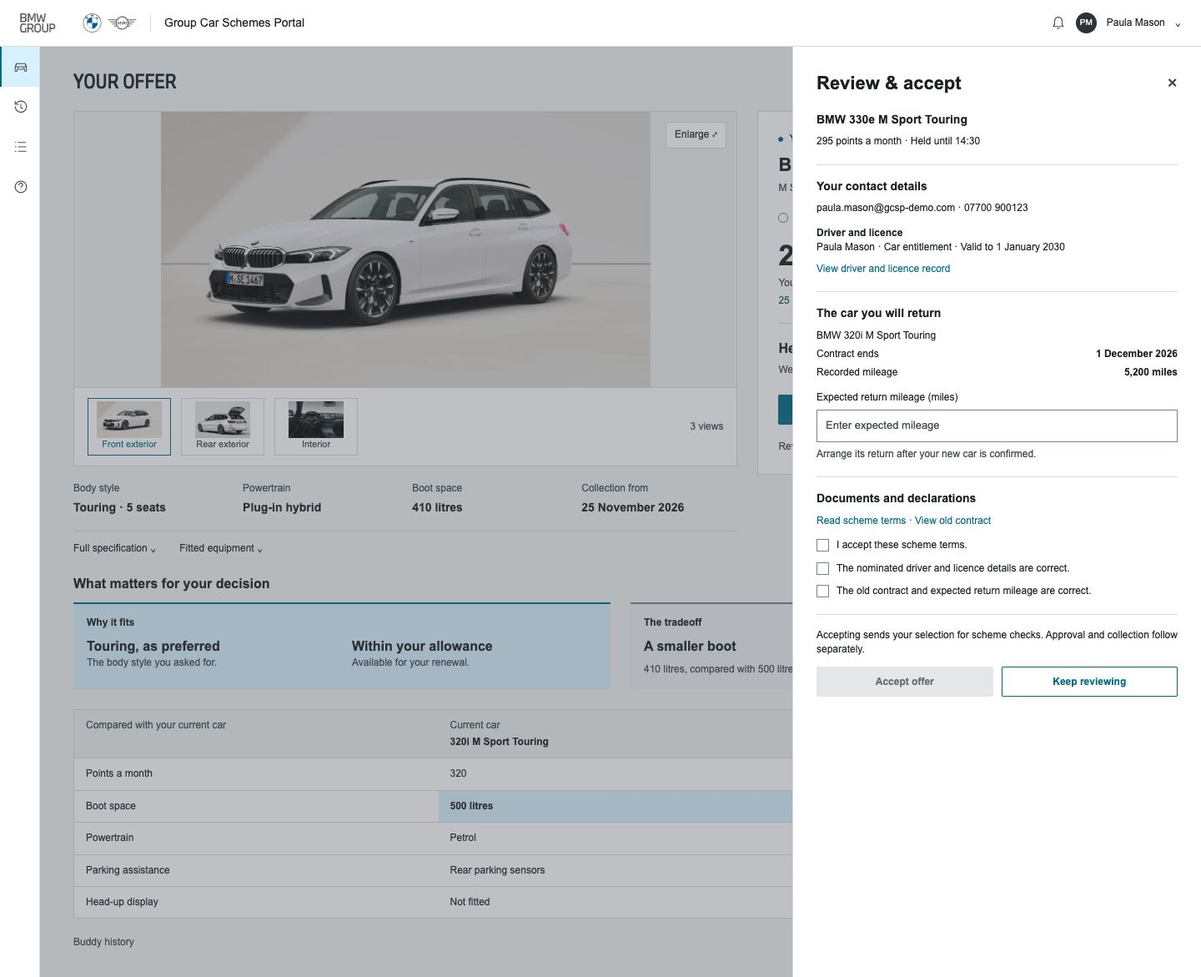
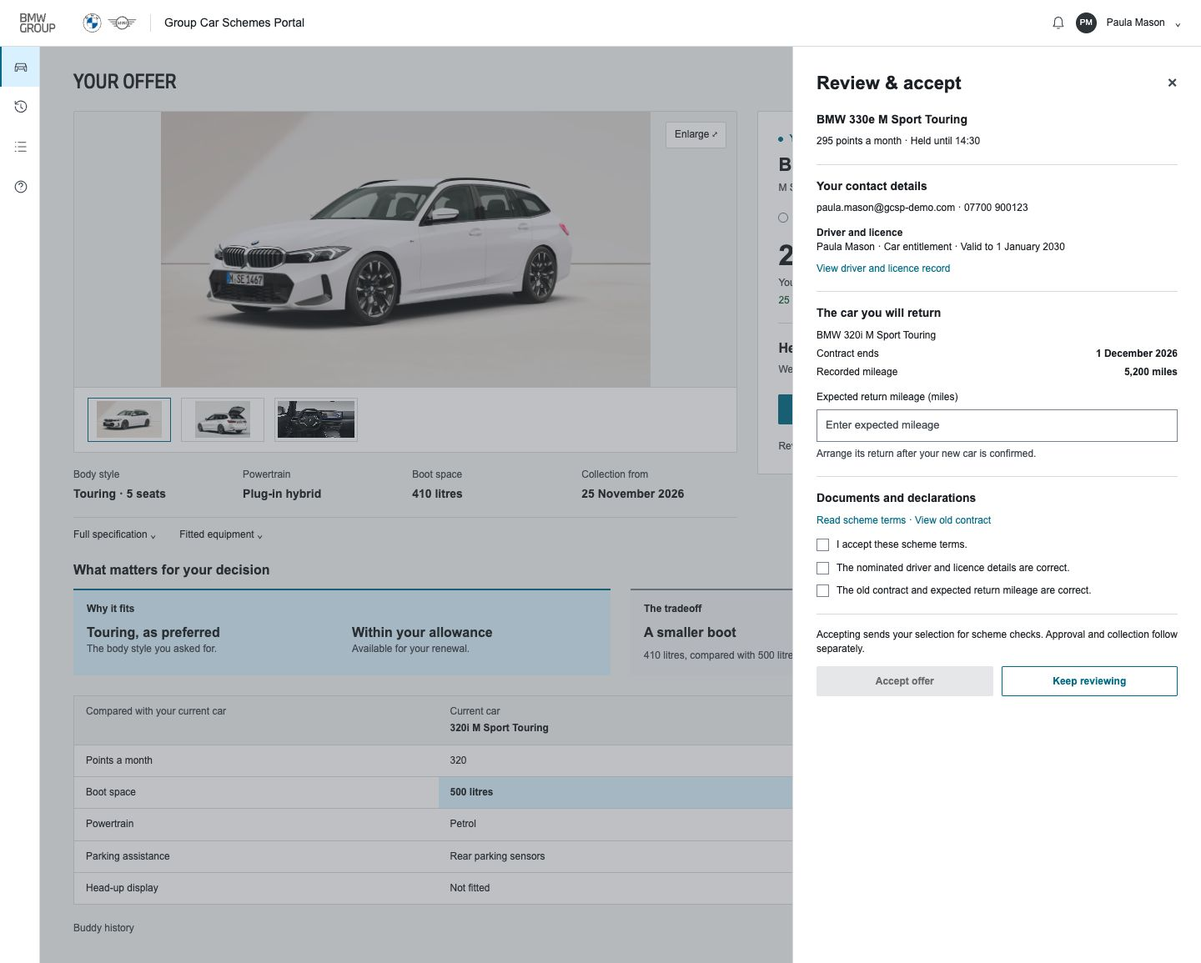
docs: simplify focused offer gallery picker [skip ci]
Remove thumbnail captions and view count from the focused concept and its review states. Preserve descriptive image alternatives. Quick desktop visual review completed.

diff --git a/docs/gcsp/mockups/your-offer-desktop-2026-11-11/accept-review.html b/docs/gcsp/mockups/your-offer-desktop-2026-11-11/accept-review.html
@@ -1,1 +1,1 @@
-<!doctype html><html lang="en-GB"><head><meta charset="utf-8"><meta name="viewport" content="width=device-width,initial-scale=1"><title>Your offer · GCSP</title><link rel="stylesheet" href="mockup.css"></head><body class="focused state-page"><header class="top"><img class="brand" src="assets/brand.svg" alt="BMW Group, BMW and MINI"><span class="portal">Group Car Schemes Portal</span><div class="profile"><img class="bell" src="assets/bell.svg" alt="Offer notifications"><span class="avatar">PM</span>Paula Mason <span aria-hidden="true">⌄</span></div></header><div class="shell"><nav class="rail" aria-label="Portal"><span class="rail-item active"><img src="assets/car.svg" alt="Your cars"></span><span class="rail-item"><img src="assets/history.svg" alt="Buddy history"></span><span class="rail-item"><img src="assets/order.svg" alt="Order progress"></span><span class="rail-item"><img src="assets/help.svg" alt="Help"></span></nav><main><div class="page-head"><h1>Your offer</h1><span class="back">‹ Back to Your cars</span></div><div class="hero"><div><div class="gallery"><div class="photo"><img src="assets/front.webp" alt="Alpine White BMW 3 Series Touring"><span class="enlarge">Enlarge ⤢</span></div><div class="thumbs"><div class="thumb selected"><img src="assets/front.webp" alt="">Front exterior</div><div class="thumb"><img src="assets/rear.jpg" alt="">Rear exterior</div><div class="thumb"><img src="assets/interior.jpg" alt="">Interior</div><span class="thumb-count">3 views</span></div></div><dl class="detail-strip"><div><dt>Body style</dt><dd>Touring · 5 seats</dd></div><div><dt>Powertrain</dt><dd>Plug-in hybrid</dd></div><div><dt>Boot space</dt><dd>410 litres</dd></div><div><dt>Collection from</dt><dd>25 November 2026</dd></div></dl><div class="disclosures"><span>Full specification <span aria-hidden="true">⌄</span></span><span>Fitted equipment <span aria-hidden="true">⌄</span></span></div></div><aside class="summary"><div class="identity"><p class="eyebrow">Your buddy found a car for you</p><h2 style="margin-top:8px">BMW 330e M Sport Touring</h2><p class="model-sub">M Sport Pro package · Automatic</p></div><p class="finishes"><span><i class="swatch"></i>Alpine White</span><span><i class="swatch black"></i>Black Veganza</span></p><div class="cost"><strong>295</strong> points a month<p class="allowance">Your allowance: 320 points a month</p><p class="saving">25 fewer than your current car</p></div><div class="deadline"><div><strong>Held until 14:30</strong><p class="sub">Wednesday 11 November</p></div><div class="time">2h 00m<small>left to decide</small></div></div><div class="actions"><button class="action primary" type="button">Review &amp; accept</button><button class="action" type="button">Decline offer</button></div><p class="footnote">Review your details and declarations before accepting.</p></aside></div><section class="section"><div class="section-head"><h2>What matters for your decision</h2></div><div class="why"><div class="why-block"><h3>Why it fits</h3><div class="compact-bits"><div><strong>Touring, as preferred</strong><p>The body style you asked for.</p></div><div><strong>Within your allowance</strong><p>Available for your renewal.</p></div></div></div><div class="why-block trade"><h3>The tradeoff</h3><strong>A smaller boot</strong><p>410 litres, compared with 500 litres in your current car.</p></div></div></section><section class="section"><table class="compare"><thead><tr><th>Compared with your current car</th><th>Current car<span class="name">320i M Sport Touring</span></th><th class="offer-col">This offer<span class="name">330e M Sport Touring</span></th></tr></thead><tbody><tr><td>Points a month</td><td class="">320</td><td class="win">295</td></tr><tr><td>Boot space</td><td class="win">500 litres</td><td class="">410 litres</td></tr><tr><td>Powertrain</td><td class="">Petrol</td><td class="">Plug-in hybrid</td></tr><tr><td>Parking assistance</td><td class="">Rear parking sensors</td><td class="win">Parking Assistant Plus</td></tr><tr><td>Head-up display</td><td class="">Not fitted</td><td class="win">Included</td></tr></tbody></table></section><div class="bottom"><span class="quiet">Buddy history</span><span class="return-link">Check current offer state</span></div><div class="state-shade"></div><div class="drawer"><div class="drawer-head"><h2>Review &amp; accept</h2><span class="drawer-close">×</span></div><div><h3>BMW 330e M Sport Touring</h3><p>295 points a month · Held until 14:30</p></div><section><h3>Your contact details</h3><p>paula.mason@gcsp-demo.com · 07700 900123</p><p style="margin-top:12px"><strong>Driver and licence</strong></p><p>Paula Mason · Car entitlement · Valid to 1 January 2030</p><p style="margin-top:8px;color:var(--teal)">View driver and licence record</p></section><section><h3>The car you will return</h3><p>BMW 320i M Sport Touring</p><div class="pair"><span>Contract ends</span><strong>1 December 2026</strong></div><div class="pair"><span>Recorded mileage</span><strong>5,200 miles</strong></div><p style="margin-top:12px">Expected return mileage (miles)</p><div class="field">Enter expected mileage</div><p class="sub">Arrange its return after your new car is confirmed.</p></section><section><h3>Documents and declarations</h3><p style="color:var(--teal);margin-bottom:12px">Read scheme terms · View old contract</p><div class="checks"><p><span class="box"></span>I accept these scheme terms.</p><p><span class="box"></span>The nominated driver and licence details are correct.</p><p><span class="box"></span>The old contract and expected return mileage are correct.</p></div></section><div class="drawer-footer"><p>Accepting sends your selection for scheme checks. Approval and collection follow separately.</p><div class="actions"><button class="action disabled" disabled>Accept offer</button><button class="action">Keep reviewing</button></div></div></div></main></div></body></html>
+<!doctype html><html lang="en-GB"><head><meta charset="utf-8"><meta name="viewport" content="width=device-width,initial-scale=1"><title>Your offer · GCSP</title><link rel="stylesheet" href="mockup.css"></head><body class="focused state-page"><header class="top"><img class="brand" src="assets/brand.svg" alt="BMW Group, BMW and MINI"><span class="portal">Group Car Schemes Portal</span><div class="profile"><img class="bell" src="assets/bell.svg" alt="Offer notifications"><span class="avatar">PM</span>Paula Mason <span aria-hidden="true">⌄</span></div></header><div class="shell"><nav class="rail" aria-label="Portal"><span class="rail-item active"><img src="assets/car.svg" alt="Your cars"></span><span class="rail-item"><img src="assets/history.svg" alt="Buddy history"></span><span class="rail-item"><img src="assets/order.svg" alt="Order progress"></span><span class="rail-item"><img src="assets/help.svg" alt="Help"></span></nav><main><div class="page-head"><h1>Your offer</h1><span class="back">‹ Back to Your cars</span></div><div class="hero"><div><div class="gallery"><div class="photo"><img src="assets/front.webp" alt="Alpine White BMW 3 Series Touring"><span class="enlarge">Enlarge ⤢</span></div><div class="thumbs"><div class="thumb selected"><img src="assets/front.webp" alt="Front exterior"></div><div class="thumb"><img src="assets/rear.jpg" alt="Rear exterior"></div><div class="thumb"><img src="assets/interior.jpg" alt="Interior"></div></div></div><dl class="detail-strip"><div><dt>Body style</dt><dd>Touring · 5 seats</dd></div><div><dt>Powertrain</dt><dd>Plug-in hybrid</dd></div><div><dt>Boot space</dt><dd>410 litres</dd></div><div><dt>Collection from</dt><dd>25 November 2026</dd></div></dl><div class="disclosures"><span>Full specification <span aria-hidden="true">⌄</span></span><span>Fitted equipment <span aria-hidden="true">⌄</span></span></div></div><aside class="summary"><div class="identity"><p class="eyebrow">Your buddy found a car for you</p><h2 style="margin-top:8px">BMW 330e M Sport Touring</h2><p class="model-sub">M Sport Pro package · Automatic</p></div><p class="finishes"><span><i class="swatch"></i>Alpine White</span><span><i class="swatch black"></i>Black Veganza</span></p><div class="cost"><strong>295</strong> points a month<p class="allowance">Your allowance: 320 points a month</p><p class="saving">25 fewer than your current car</p></div><div class="deadline"><div><strong>Held until 14:30</strong><p class="sub">Wednesday 11 November</p></div><div class="time">2h 00m<small>left to decide</small></div></div><div class="actions"><button class="action primary" type="button">Review &amp; accept</button><button class="action" type="button">Decline offer</button></div><p class="footnote">Review your details and declarations before accepting.</p></aside></div><section class="section"><div class="section-head"><h2>What matters for your decision</h2></div><div class="why"><div class="why-block"><h3>Why it fits</h3><div class="compact-bits"><div><strong>Touring, as preferred</strong><p>The body style you asked for.</p></div><div><strong>Within your allowance</strong><p>Available for your renewal.</p></div></div></div><div class="why-block trade"><h3>The tradeoff</h3><strong>A smaller boot</strong><p>410 litres, compared with 500 litres in your current car.</p></div></div></section><section class="section"><table class="compare"><thead><tr><th>Compared with your current car</th><th>Current car<span class="name">320i M Sport Touring</span></th><th class="offer-col">This offer<span class="name">330e M Sport Touring</span></th></tr></thead><tbody><tr><td>Points a month</td><td class="">320</td><td class="win">295</td></tr><tr><td>Boot space</td><td class="win">500 litres</td><td class="">410 litres</td></tr><tr><td>Powertrain</td><td class="">Petrol</td><td class="">Plug-in hybrid</td></tr><tr><td>Parking assistance</td><td class="">Rear parking sensors</td><td class="win">Parking Assistant Plus</td></tr><tr><td>Head-up display</td><td class="">Not fitted</td><td class="win">Included</td></tr></tbody></table></section><div class="bottom"><span class="quiet">Buddy history</span><span class="return-link">Check current offer state</span></div><div class="state-shade"></div><div class="drawer"><div class="drawer-head"><h2>Review &amp; accept</h2><span class="drawer-close">×</span></div><div><h3>BMW 330e M Sport Touring</h3><p>295 points a month · Held until 14:30</p></div><section><h3>Your contact details</h3><p>paula.mason@gcsp-demo.com · 07700 900123</p><p style="margin-top:12px"><strong>Driver and licence</strong></p><p>Paula Mason · Car entitlement · Valid to 1 January 2030</p><p style="margin-top:8px;color:var(--teal)">View driver and licence record</p></section><section><h3>The car you will return</h3><p>BMW 320i M Sport Touring</p><div class="pair"><span>Contract ends</span><strong>1 December 2026</strong></div><div class="pair"><span>Recorded mileage</span><strong>5,200 miles</strong></div><p style="margin-top:12px">Expected return mileage (miles)</p><div class="field">Enter expected mileage</div><p class="sub">Arrange its return after your new car is confirmed.</p></section><section><h3>Documents and declarations</h3><p style="color:var(--teal);margin-bottom:12px">Read scheme terms · View old contract</p><div class="checks"><p><span class="box"></span>I accept these scheme terms.</p><p><span class="box"></span>The nominated driver and licence details are correct.</p><p><span class="box"></span>The old contract and expected return mileage are correct.</p></div></section><div class="drawer-footer"><p>Accepting sends your selection for scheme checks. Approval and collection follow separately.</p><div class="actions"><button class="action disabled" disabled>Accept offer</button><button class="action">Keep reviewing</button></div></div></div></main></div></body></html>

diff --git a/docs/gcsp/mockups/your-offer-desktop-2026-11-11/decline-review.html b/docs/gcsp/mockups/your-offer-desktop-2026-11-11/decline-review.html
@@ -1,1 +1,1 @@
-<!doctype html><html lang="en-GB"><head><meta charset="utf-8"><meta name="viewport" content="width=device-width,initial-scale=1"><title>Your offer · GCSP</title><link rel="stylesheet" href="mockup.css"></head><body class="focused state-page"><header class="top"><img class="brand" src="assets/brand.svg" alt="BMW Group, BMW and MINI"><span class="portal">Group Car Schemes Portal</span><div class="profile"><img class="bell" src="assets/bell.svg" alt="Offer notifications"><span class="avatar">PM</span>Paula Mason <span aria-hidden="true">⌄</span></div></header><div class="shell"><nav class="rail" aria-label="Portal"><span class="rail-item active"><img src="assets/car.svg" alt="Your cars"></span><span class="rail-item"><img src="assets/history.svg" alt="Buddy history"></span><span class="rail-item"><img src="assets/order.svg" alt="Order progress"></span><span class="rail-item"><img src="assets/help.svg" alt="Help"></span></nav><main><div class="page-head"><h1>Your offer</h1><span class="back">‹ Back to Your cars</span></div><div class="hero"><div><div class="gallery"><div class="photo"><img src="assets/front.webp" alt="Alpine White BMW 3 Series Touring"><span class="enlarge">Enlarge ⤢</span></div><div class="thumbs"><div class="thumb selected"><img src="assets/front.webp" alt="">Front exterior</div><div class="thumb"><img src="assets/rear.jpg" alt="">Rear exterior</div><div class="thumb"><img src="assets/interior.jpg" alt="">Interior</div><span class="thumb-count">3 views</span></div></div><dl class="detail-strip"><div><dt>Body style</dt><dd>Touring · 5 seats</dd></div><div><dt>Powertrain</dt><dd>Plug-in hybrid</dd></div><div><dt>Boot space</dt><dd>410 litres</dd></div><div><dt>Collection from</dt><dd>25 November 2026</dd></div></dl><div class="disclosures"><span>Full specification <span aria-hidden="true">⌄</span></span><span>Fitted equipment <span aria-hidden="true">⌄</span></span></div></div><aside class="summary"><div class="identity"><p class="eyebrow">Your buddy found a car for you</p><h2 style="margin-top:8px">BMW 330e M Sport Touring</h2><p class="model-sub">M Sport Pro package · Automatic</p></div><p class="finishes"><span><i class="swatch"></i>Alpine White</span><span><i class="swatch black"></i>Black Veganza</span></p><div class="cost"><strong>295</strong> points a month<p class="allowance">Your allowance: 320 points a month</p><p class="saving">25 fewer than your current car</p></div><div class="deadline"><div><strong>Held until 14:30</strong><p class="sub">Wednesday 11 November</p></div><div class="time">2h 00m<small>left to decide</small></div></div><div class="actions"><button class="action primary" type="button">Review &amp; accept</button><button class="action" type="button">Decline offer</button></div><p class="footnote">Review your details and declarations before accepting.</p></aside></div><section class="section"><div class="section-head"><h2>What matters for your decision</h2></div><div class="why"><div class="why-block"><h3>Why it fits</h3><div class="compact-bits"><div><strong>Touring, as preferred</strong><p>The body style you asked for.</p></div><div><strong>Within your allowance</strong><p>Available for your renewal.</p></div></div></div><div class="why-block trade"><h3>The tradeoff</h3><strong>A smaller boot</strong><p>410 litres, compared with 500 litres in your current car.</p></div></div></section><section class="section"><table class="compare"><thead><tr><th>Compared with your current car</th><th>Current car<span class="name">320i M Sport Touring</span></th><th class="offer-col">This offer<span class="name">330e M Sport Touring</span></th></tr></thead><tbody><tr><td>Points a month</td><td class="">320</td><td class="win">295</td></tr><tr><td>Boot space</td><td class="win">500 litres</td><td class="">410 litres</td></tr><tr><td>Powertrain</td><td class="">Petrol</td><td class="">Plug-in hybrid</td></tr><tr><td>Parking assistance</td><td class="">Rear parking sensors</td><td class="win">Parking Assistant Plus</td></tr><tr><td>Head-up display</td><td class="">Not fitted</td><td class="win">Included</td></tr></tbody></table></section><div class="bottom"><span class="quiet">Buddy history</span><span class="return-link">Check current offer state</span></div><div class="state-shade"></div><div class="drawer"><div class="drawer-head"><h2>Decline this offer</h2><span class="drawer-close">×</span></div><div><h3>BMW 330e M Sport Touring</h3><p style="margin-top:6px">What does not work for you?</p></div><div class="radio-row">Body style</div><div class="radio-row selected">Size</div><div class="radio-row">Fuel type</div><div class="radio-row">Equipment</div><div class="drawer-footer"><p>Declining releases this car. You can then change one thing for your buddy’s next search.</p><div class="actions"><button class="action primary">Decline offer</button><button class="action">Keep reviewing</button></div></div></div></main></div></body></html>
+<!doctype html><html lang="en-GB"><head><meta charset="utf-8"><meta name="viewport" content="width=device-width,initial-scale=1"><title>Your offer · GCSP</title><link rel="stylesheet" href="mockup.css"></head><body class="focused state-page"><header class="top"><img class="brand" src="assets/brand.svg" alt="BMW Group, BMW and MINI"><span class="portal">Group Car Schemes Portal</span><div class="profile"><img class="bell" src="assets/bell.svg" alt="Offer notifications"><span class="avatar">PM</span>Paula Mason <span aria-hidden="true">⌄</span></div></header><div class="shell"><nav class="rail" aria-label="Portal"><span class="rail-item active"><img src="assets/car.svg" alt="Your cars"></span><span class="rail-item"><img src="assets/history.svg" alt="Buddy history"></span><span class="rail-item"><img src="assets/order.svg" alt="Order progress"></span><span class="rail-item"><img src="assets/help.svg" alt="Help"></span></nav><main><div class="page-head"><h1>Your offer</h1><span class="back">‹ Back to Your cars</span></div><div class="hero"><div><div class="gallery"><div class="photo"><img src="assets/front.webp" alt="Alpine White BMW 3 Series Touring"><span class="enlarge">Enlarge ⤢</span></div><div class="thumbs"><div class="thumb selected"><img src="assets/front.webp" alt="Front exterior"></div><div class="thumb"><img src="assets/rear.jpg" alt="Rear exterior"></div><div class="thumb"><img src="assets/interior.jpg" alt="Interior"></div></div></div><dl class="detail-strip"><div><dt>Body style</dt><dd>Touring · 5 seats</dd></div><div><dt>Powertrain</dt><dd>Plug-in hybrid</dd></div><div><dt>Boot space</dt><dd>410 litres</dd></div><div><dt>Collection from</dt><dd>25 November 2026</dd></div></dl><div class="disclosures"><span>Full specification <span aria-hidden="true">⌄</span></span><span>Fitted equipment <span aria-hidden="true">⌄</span></span></div></div><aside class="summary"><div class="identity"><p class="eyebrow">Your buddy found a car for you</p><h2 style="margin-top:8px">BMW 330e M Sport Touring</h2><p class="model-sub">M Sport Pro package · Automatic</p></div><p class="finishes"><span><i class="swatch"></i>Alpine White</span><span><i class="swatch black"></i>Black Veganza</span></p><div class="cost"><strong>295</strong> points a month<p class="allowance">Your allowance: 320 points a month</p><p class="saving">25 fewer than your current car</p></div><div class="deadline"><div><strong>Held until 14:30</strong><p class="sub">Wednesday 11 November</p></div><div class="time">2h 00m<small>left to decide</small></div></div><div class="actions"><button class="action primary" type="button">Review &amp; accept</button><button class="action" type="button">Decline offer</button></div><p class="footnote">Review your details and declarations before accepting.</p></aside></div><section class="section"><div class="section-head"><h2>What matters for your decision</h2></div><div class="why"><div class="why-block"><h3>Why it fits</h3><div class="compact-bits"><div><strong>Touring, as preferred</strong><p>The body style you asked for.</p></div><div><strong>Within your allowance</strong><p>Available for your renewal.</p></div></div></div><div class="why-block trade"><h3>The tradeoff</h3><strong>A smaller boot</strong><p>410 litres, compared with 500 litres in your current car.</p></div></div></section><section class="section"><table class="compare"><thead><tr><th>Compared with your current car</th><th>Current car<span class="name">320i M Sport Touring</span></th><th class="offer-col">This offer<span class="name">330e M Sport Touring</span></th></tr></thead><tbody><tr><td>Points a month</td><td class="">320</td><td class="win">295</td></tr><tr><td>Boot space</td><td class="win">500 litres</td><td class="">410 litres</td></tr><tr><td>Powertrain</td><td class="">Petrol</td><td class="">Plug-in hybrid</td></tr><tr><td>Parking assistance</td><td class="">Rear parking sensors</td><td class="win">Parking Assistant Plus</td></tr><tr><td>Head-up display</td><td class="">Not fitted</td><td class="win">Included</td></tr></tbody></table></section><div class="bottom"><span class="quiet">Buddy history</span><span class="return-link">Check current offer state</span></div><div class="state-shade"></div><div class="drawer"><div class="drawer-head"><h2>Decline this offer</h2><span class="drawer-close">×</span></div><div><h3>BMW 330e M Sport Touring</h3><p style="margin-top:6px">What does not work for you?</p></div><div class="radio-row">Body style</div><div class="radio-row selected">Size</div><div class="radio-row">Fuel type</div><div class="radio-row">Equipment</div><div class="drawer-footer"><p>Declining releases this car. You can then change one thing for your buddy’s next search.</p><div class="actions"><button class="action primary">Decline offer</button><button class="action">Keep reviewing</button></div></div></div></main></div></body></html>

diff --git a/docs/gcsp/mockups/your-offer-desktop-2026-11-11/focused.html b/docs/gcsp/mockups/your-offer-desktop-2026-11-11/focused.html
@@ -1,1 +1,1 @@
-<!doctype html><html lang="en-GB"><head><meta charset="utf-8"><meta name="viewport" content="width=device-width,initial-scale=1"><title>Your offer · GCSP</title><link rel="stylesheet" href="mockup.css"></head><body class="focused"><header class="top"><img class="brand" src="assets/brand.svg" alt="BMW Group, BMW and MINI"><span class="portal">Group Car Schemes Portal</span><div class="profile"><img class="bell" src="assets/bell.svg" alt="Offer notifications"><span class="avatar">PM</span>Paula Mason <span aria-hidden="true">⌄</span></div></header><div class="shell"><nav class="rail" aria-label="Portal"><span class="rail-item active"><img src="assets/car.svg" alt="Your cars"></span><span class="rail-item"><img src="assets/history.svg" alt="Buddy history"></span><span class="rail-item"><img src="assets/order.svg" alt="Order progress"></span><span class="rail-item"><img src="assets/help.svg" alt="Help"></span></nav><main><div class="page-head"><h1>Your offer</h1><span class="back">‹ Back to Your cars</span></div><div class="hero"><div><div class="gallery"><div class="photo"><img src="assets/front.webp" alt="Alpine White BMW 3 Series Touring"><span class="enlarge">Enlarge ⤢</span></div><div class="thumbs"><div class="thumb selected"><img src="assets/front.webp" alt="">Front exterior</div><div class="thumb"><img src="assets/rear.jpg" alt="">Rear exterior</div><div class="thumb"><img src="assets/interior.jpg" alt="">Interior</div><span class="thumb-count">3 views</span></div></div><dl class="detail-strip"><div><dt>Body style</dt><dd>Touring · 5 seats</dd></div><div><dt>Powertrain</dt><dd>Plug-in hybrid</dd></div><div><dt>Boot space</dt><dd>410 litres</dd></div><div><dt>Collection from</dt><dd>25 November 2026</dd></div></dl><div class="disclosures"><span>Full specification <span aria-hidden="true">⌄</span></span><span>Fitted equipment <span aria-hidden="true">⌄</span></span></div></div><aside class="summary"><div class="identity"><p class="eyebrow">Your buddy found a car for you</p><h2 style="margin-top:8px">BMW 330e M Sport Touring</h2><p class="model-sub">M Sport Pro package · Automatic</p></div><p class="finishes"><span><i class="swatch"></i>Alpine White</span><span><i class="swatch black"></i>Black Veganza</span></p><div class="cost"><strong>295</strong> points a month<p class="allowance">Your allowance: 320 points a month</p><p class="saving">25 fewer than your current car</p></div><div class="deadline"><div><strong>Held until 14:30</strong><p class="sub">Wednesday 11 November</p></div><div class="time">2h 00m<small>left to decide</small></div></div><div class="actions"><button class="action primary" type="button">Review &amp; accept</button><button class="action" type="button">Decline offer</button></div><p class="footnote">Review your details and declarations before accepting.</p></aside></div><section class="section"><div class="section-head"><h2>What matters for your decision</h2></div><div class="why"><div class="why-block"><h3>Why it fits</h3><div class="compact-bits"><div><strong>Touring, as preferred</strong><p>The body style you asked for.</p></div><div><strong>Within your allowance</strong><p>Available for your renewal.</p></div></div></div><div class="why-block trade"><h3>The tradeoff</h3><strong>A smaller boot</strong><p>410 litres, compared with 500 litres in your current car.</p></div></div></section><section class="section"><table class="compare"><thead><tr><th>Compared with your current car</th><th>Current car<span class="name">320i M Sport Touring</span></th><th class="offer-col">This offer<span class="name">330e M Sport Touring</span></th></tr></thead><tbody><tr><td>Points a month</td><td class="">320</td><td class="win">295</td></tr><tr><td>Boot space</td><td class="win">500 litres</td><td class="">410 litres</td></tr><tr><td>Powertrain</td><td class="">Petrol</td><td class="">Plug-in hybrid</td></tr><tr><td>Parking assistance</td><td class="">Rear parking sensors</td><td class="win">Parking Assistant Plus</td></tr><tr><td>Head-up display</td><td class="">Not fitted</td><td class="win">Included</td></tr></tbody></table></section><div class="bottom"><span class="quiet">Buddy history</span><span class="return-link">Check current offer state</span></div></main></div></body></html>
+<!doctype html><html lang="en-GB"><head><meta charset="utf-8"><meta name="viewport" content="width=device-width,initial-scale=1"><title>Your offer · GCSP</title><link rel="stylesheet" href="mockup.css"></head><body class="focused"><header class="top"><img class="brand" src="assets/brand.svg" alt="BMW Group, BMW and MINI"><span class="portal">Group Car Schemes Portal</span><div class="profile"><img class="bell" src="assets/bell.svg" alt="Offer notifications"><span class="avatar">PM</span>Paula Mason <span aria-hidden="true">⌄</span></div></header><div class="shell"><nav class="rail" aria-label="Portal"><span class="rail-item active"><img src="assets/car.svg" alt="Your cars"></span><span class="rail-item"><img src="assets/history.svg" alt="Buddy history"></span><span class="rail-item"><img src="assets/order.svg" alt="Order progress"></span><span class="rail-item"><img src="assets/help.svg" alt="Help"></span></nav><main><div class="page-head"><h1>Your offer</h1><span class="back">‹ Back to Your cars</span></div><div class="hero"><div><div class="gallery"><div class="photo"><img src="assets/front.webp" alt="Alpine White BMW 3 Series Touring"><span class="enlarge">Enlarge ⤢</span></div><div class="thumbs"><div class="thumb selected"><img src="assets/front.webp" alt="Front exterior"></div><div class="thumb"><img src="assets/rear.jpg" alt="Rear exterior"></div><div class="thumb"><img src="assets/interior.jpg" alt="Interior"></div></div></div><dl class="detail-strip"><div><dt>Body style</dt><dd>Touring · 5 seats</dd></div><div><dt>Powertrain</dt><dd>Plug-in hybrid</dd></div><div><dt>Boot space</dt><dd>410 litres</dd></div><div><dt>Collection from</dt><dd>25 November 2026</dd></div></dl><div class="disclosures"><span>Full specification <span aria-hidden="true">⌄</span></span><span>Fitted equipment <span aria-hidden="true">⌄</span></span></div></div><aside class="summary"><div class="identity"><p class="eyebrow">Your buddy found a car for you</p><h2 style="margin-top:8px">BMW 330e M Sport Touring</h2><p class="model-sub">M Sport Pro package · Automatic</p></div><p class="finishes"><span><i class="swatch"></i>Alpine White</span><span><i class="swatch black"></i>Black Veganza</span></p><div class="cost"><strong>295</strong> points a month<p class="allowance">Your allowance: 320 points a month</p><p class="saving">25 fewer than your current car</p></div><div class="deadline"><div><strong>Held until 14:30</strong><p class="sub">Wednesday 11 November</p></div><div class="time">2h 00m<small>left to decide</small></div></div><div class="actions"><button class="action primary" type="button">Review &amp; accept</button><button class="action" type="button">Decline offer</button></div><p class="footnote">Review your details and declarations before accepting.</p></aside></div><section class="section"><div class="section-head"><h2>What matters for your decision</h2></div><div class="why"><div class="why-block"><h3>Why it fits</h3><div class="compact-bits"><div><strong>Touring, as preferred</strong><p>The body style you asked for.</p></div><div><strong>Within your allowance</strong><p>Available for your renewal.</p></div></div></div><div class="why-block trade"><h3>The tradeoff</h3><strong>A smaller boot</strong><p>410 litres, compared with 500 litres in your current car.</p></div></div></section><section class="section"><table class="compare"><thead><tr><th>Compared with your current car</th><th>Current car<span class="name">320i M Sport Touring</span></th><th class="offer-col">This offer<span class="name">330e M Sport Touring</span></th></tr></thead><tbody><tr><td>Points a month</td><td class="">320</td><td class="win">295</td></tr><tr><td>Boot space</td><td class="win">500 litres</td><td class="">410 litres</td></tr><tr><td>Powertrain</td><td class="">Petrol</td><td class="">Plug-in hybrid</td></tr><tr><td>Parking assistance</td><td class="">Rear parking sensors</td><td class="win">Parking Assistant Plus</td></tr><tr><td>Head-up display</td><td class="">Not fitted</td><td class="win">Included</td></tr></tbody></table></section><div class="bottom"><span class="quiet">Buddy history</span><span class="return-link">Check current offer state</span></div></main></div></body></html>

diff --git a/docs/gcsp/mockups/your-offer-desktop-2026-11-11/README.md b/docs/gcsp/mockups/your-offer-desktop-2026-11-11/README.md
@@ -9,3 +9,5 @@ Keep the light portal shell, Density heading font, teal controls, finishes, usef
 The car facts, points, finishes, equipment, return record and approval stage are illustrative content reused from the earlier approved offer concept, not verified specifications or live policy. Imagery and font retain their original provenance in `../vehicle-offer-2026-11-11/README.md` and `../../density/evidence/font-provenance.json`. No new external assets were researched or fetched. The sample date is 11 November 2026, with two hours left at 12:30 and a 14:30 deadline; time does not advance.
 
 Quick rendered review only, at 1440 × 1040: inspected all three alternatives, acceptance and decline review, accepted and expired. Adjacent JPGs retain the views. The acceptance state preserves all three declarations and missing expected mileage; its final action is disabled. The outcomes distinguish selection from approval and give expired offers no decision actions. Links/assets were checked locally. No functional/browser suite, phone/tablet validation, real decisions, data wiring, Jira writes, subagents, merges or deployments. Application code is unchanged. This is a design proposal awaiting refinement, not approved implementation scope.
+
+Gary chose Focused decision for refinement on 11 November. First refinement: remove the thumbnail captions and view-count text from the focused gallery picker, retaining descriptive image alternatives. Applied to the focused screen and its two review overlays; the other concept alternatives are retained for comparison.
